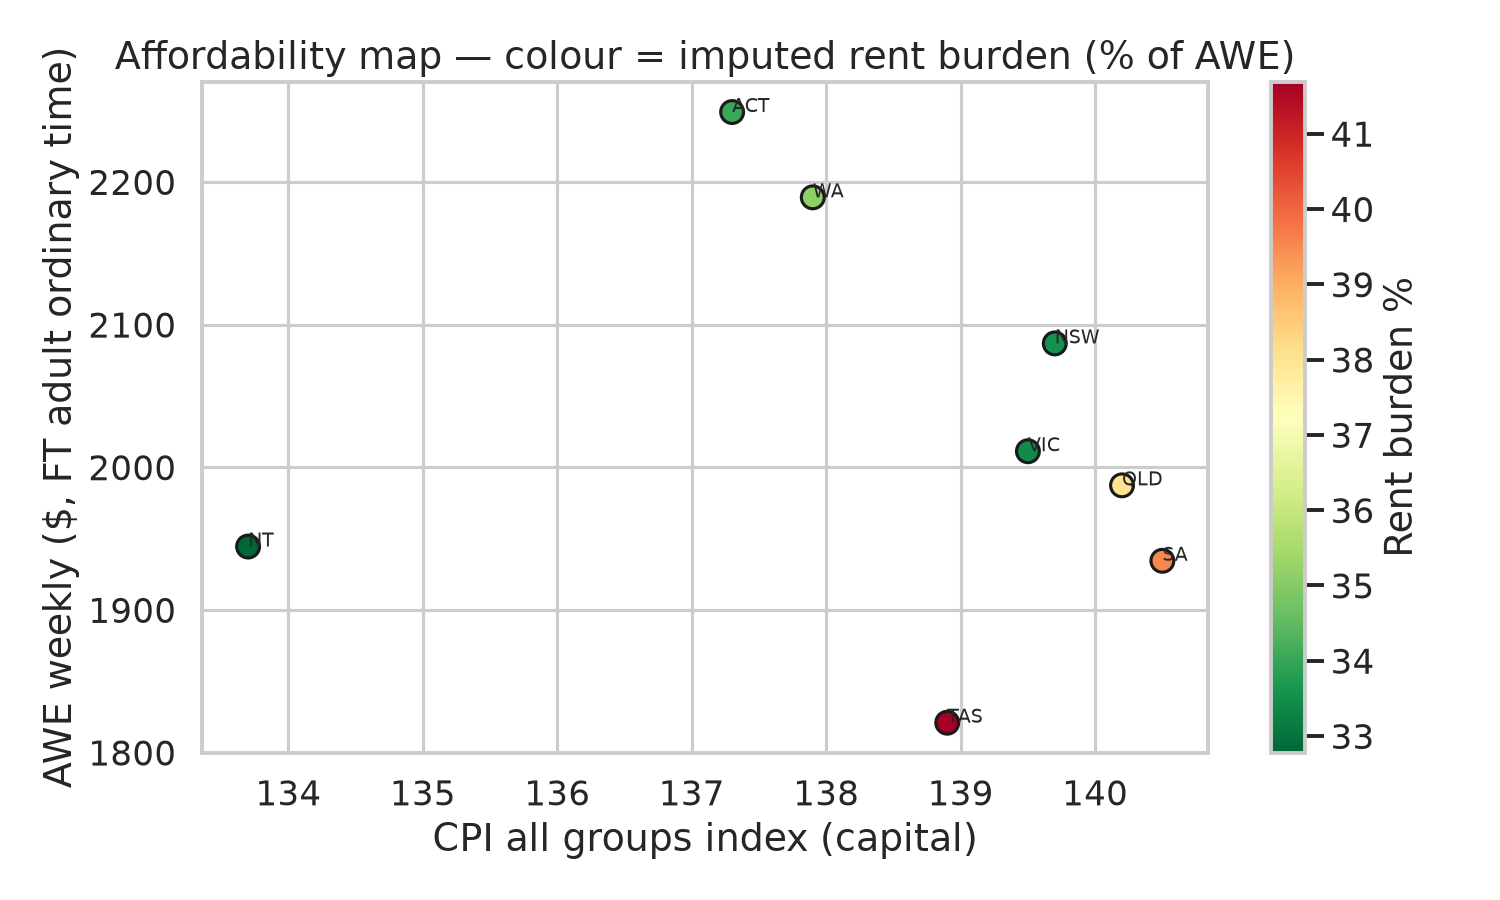
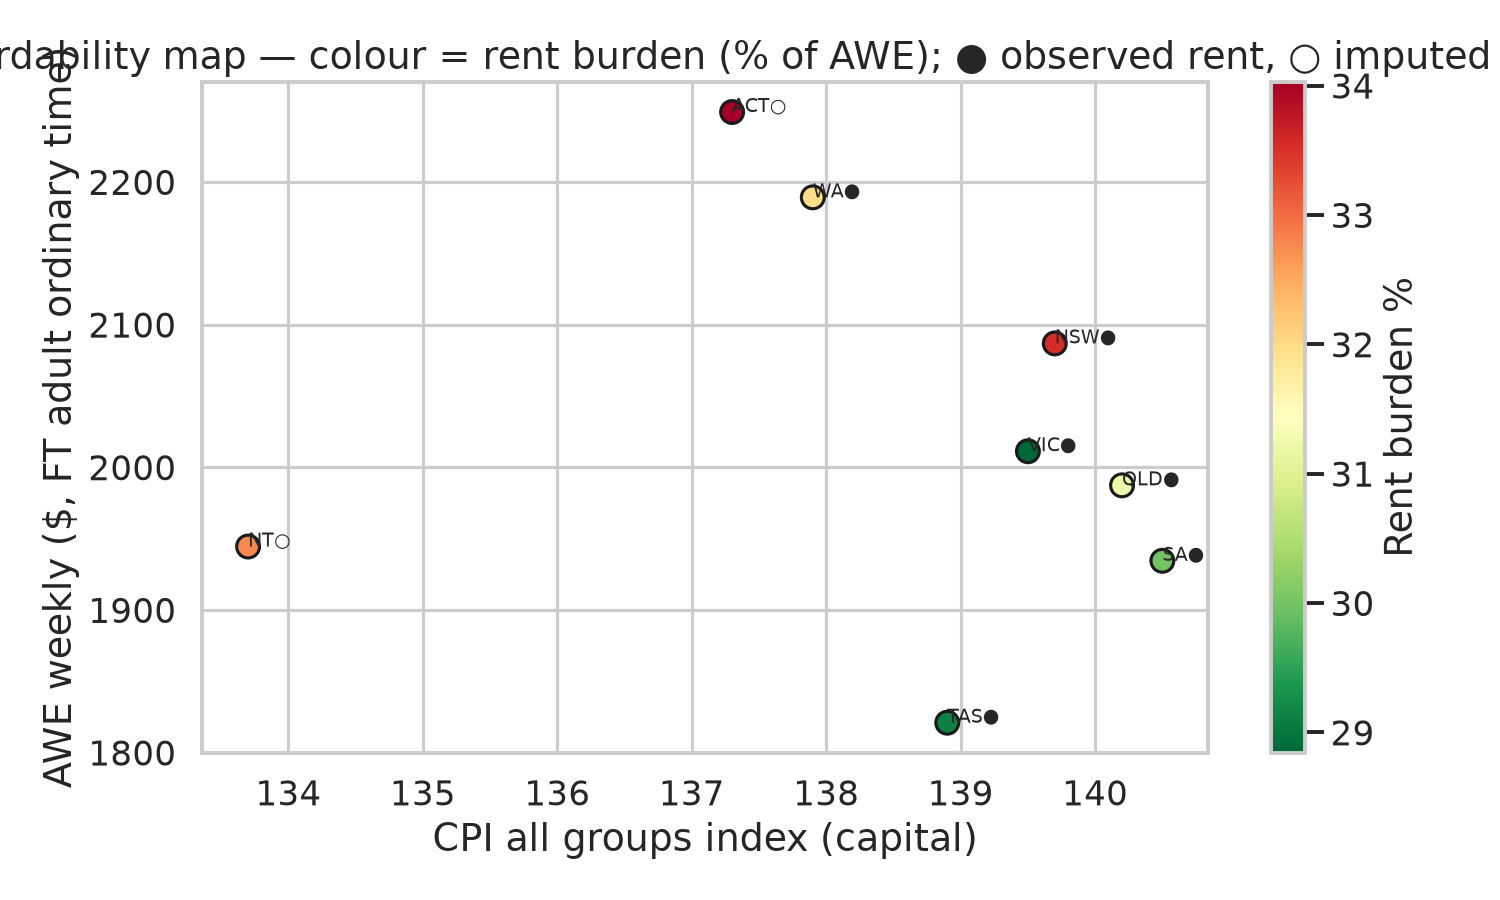
Merge observed capital rents into affordability outputs.
Prefer bond and rental-report medians where available; keep CPI-scaled fallback only for ACT and Darwin, and refresh tables, figures, and manifest entries.

diff --git a/src/analysis/affordability.py b/src/analysis/affordability.py
@@ -4,16 +4,16 @@ Affordability index: earnings vs cost of living.
 Methodology (documented in README):
 - Base index A: real_earnings_index = (weekly AWE / CPI all-groups index) × 100.
   Higher = more weekly pay per unit of city price level (purchasing-power proxy).
-- Base index B: rent_burden_pct = 100 × (imputed_weekly_rent / weekly AWE).
+- Base index B: rent_burden_pct = 100 × (median_weekly_rent / weekly AWE).
   Lower = more affordable housing relative to pay.
 
-Imputed weekly rent by capital (when bond data unavailable):
-  rent_hat(city) = NSW_median_rent × (CPI_rent_index(city) / CPI_rent_index(Sydney))
-  Anchored to NSW Fair Trading Nov 2025 median; other cities scaled by ABS CPI rents only.
+Median weekly rent by capital:
+  Prefer official bond / rental-report medians where downloaded (see `rent_observed`).
+  Fallback: NSW_median × (CPI_rent_index(city) / CPI_rent_index(Sydney)) for ACT and NT.
 
 Sensitivity (saved separately):
 - S1: use EEH average weekly total cash instead of AWE ordinary time.
-- S2: rent burden using CPI all-groups index instead of CPI rents for scaling.
+- S2: rent burden using CPI all-groups index instead of CPI rents for scaling (imputation only).
 """
 
 from __future__ import annotations
@@ -26,23 +26,15 @@ import seaborn as sns
 
 from src.io.cpi import load_cpi_all_groups_by_capital, load_cpi_rents_by_capital
 from src.io.earnings import load_awe_ft_adult_ordinary_by_state, load_eeh_avg_weekly_total_cash_by_state
+from src.io.rents_merge import merge_observed_and_imputed
 from src.io.rents_nsw import load_nsw_weekly_rents
+from src.io.rents_observed import load_all_observed_medians
 
 ROOT = Path(__file__).resolve().parents[2]
 RAW = ROOT / "data" / "raw"
 PROC = ROOT / "data" / "processed"
 FIG = ROOT / "outputs" / "figures"
 TAB = ROOT / "outputs" / "tables"
-
-
-def _impute_weekly_rents(cpi_rents: pd.DataFrame, nsw_median: float) -> pd.DataFrame:
-    sydney_idx = float(
-        cpi_rents.loc[cpi_rents["capital"] == "Sydney", "cpi_rent_index"].iloc[0]
-    )
-    out = cpi_rents.copy()
-    out["imputed_median_weekly_rent_aud"] = nsw_median * (out["cpi_rent_index"] / sydney_idx)
-    out["rent_imputation"] = "NSW bond median × (city CPI rent / Sydney CPI rent)"
-    return out
 
 
 def run() -> dict:
@@ -61,18 +53,32 @@ def run() -> dict:
         .iloc[0]
     )
 
-    rents = _impute_weekly_rents(cpi_rent, nsw_median)
+    observed = load_all_observed_medians(RAW)
+    observed.to_csv(PROC / "median_weekly_rents_observed.csv", index=False)
+    observed.to_csv(TAB / "median_weekly_rents_by_capital.csv", index=False)
+
+    rents = merge_observed_and_imputed(cpi_rent, observed, nsw_median)
     base = awe.merge(cpi, left_on="capital", right_on="capital", how="left")
     base = base.merge(
-        rents[["capital", "imputed_median_weekly_rent_aud", "rent_imputation"]],
+        rents[
+            [
+                "capital",
+                "median_weekly_rent_aud",
+                "rent_observed",
+                "rent_imputation",
+                "rent_source",
+                "period_label",
+            ]
+        ],
         on="capital",
         how="left",
     )
+    base = base.rename(columns={"period_label": "rent_period"})
     base["real_earnings_index"] = base["awe_weekly_aud"] / base["cpi_all_groups_index"] * 100.0
     base["rent_burden_pct"] = (
-        base["imputed_median_weekly_rent_aud"] / base["awe_weekly_aud"] * 100.0
+        base["median_weekly_rent_aud"] / base["awe_weekly_aud"] * 100.0
     )
-    base["residual_weekly_aud"] = base["awe_weekly_aud"] - base["imputed_median_weekly_rent_aud"]
+    base["residual_weekly_aud"] = base["awe_weekly_aud"] - base["median_weekly_rent_aud"]
     base = base.sort_values("real_earnings_index", ascending=False)
     base.to_csv(PROC / "affordability_base.csv", index=False)
     base.to_csv(TAB / "affordability_index.csv", index=False)
@@ -80,17 +86,25 @@ def run() -> dict:
     # Sensitivity
     s1 = base.merge(eeh, on=["state", "capital"], how="left")
     s1["real_earnings_index_s1"] = s1["eeh_weekly_cash_aud"] / s1["cpi_all_groups_index"] * 100.0
-    s1["rent_burden_pct_s1"] = s1["imputed_median_weekly_rent_aud"] / s1["eeh_weekly_cash_aud"] * 100.0
+    s1["rent_burden_pct_s1"] = s1["median_weekly_rent_aud"] / s1["eeh_weekly_cash_aud"] * 100.0
 
     sydney_cpi = float(cpi.loc[cpi["capital"] == "Sydney", "cpi_all_groups_index"].iloc[0])
     rent_s2 = nsw_median * (cpi["cpi_all_groups_index"] / sydney_cpi)
     rent_s2 = cpi[["capital"]].assign(imputed_rent_s2=rent_s2.values)
     s2 = base.merge(rent_s2, on="capital", how="left")
-    s2["rent_burden_pct_s2"] = s2["imputed_rent_s2"] / s2["awe_weekly_aud"] * 100.0
+    s2["rent_burden_pct_s2"] = s2.apply(
+        lambda r: (
+            r["median_weekly_rent_aud"] / r["awe_weekly_aud"] * 100.0
+            if r["rent_observed"]
+            else r["imputed_rent_s2"] / r["awe_weekly_aud"] * 100.0
+        ),
+        axis=1,
+    )
     sens = s1.merge(s2[["state", "rent_burden_pct_s2"]], on="state", how="left")[
         [
             "state",
             "capital",
+            "rent_observed",
             "real_earnings_index",
             "real_earnings_index_s1",
             "rent_burden_pct",
@@ -111,10 +125,15 @@ def run() -> dict:
         edgecolors="k",
     )
     for _, row in plot_df.iterrows():
-        ax.annotate(row["state"], (row["cpi_all_groups_index"], row["awe_weekly_aud"]), fontsize=9)
+        marker = "●" if row["rent_observed"] else "○"
+        ax.annotate(
+            f"{row['state']}{marker}",
+            (row["cpi_all_groups_index"], row["awe_weekly_aud"]),
+            fontsize=9,
+        )
     ax.set_xlabel("CPI all groups index (capital)")
     ax.set_ylabel("AWE weekly ($, FT adult ordinary time)")
-    ax.set_title("Affordability map — colour = imputed rent burden (% of AWE)")
+    ax.set_title("Affordability map — colour = rent burden (% of AWE); ● observed rent, ○ imputed")
     fig.colorbar(ax.collections[0], ax=ax, label="Rent burden %")
     fig.tight_layout()
     fig.savefig(FIG / "affordability_scatter.png", dpi=150)
@@ -122,12 +141,14 @@ def run() -> dict:
 
     best = base.iloc[0]
     worst_burden = base.loc[base["rent_burden_pct"].idxmax()]
+    n_observed = int(base["rent_observed"].sum())
     summary = {
         "best_real_earnings_capital": best["capital"],
         "best_real_earnings_state": best["state"],
         "best_real_earnings_index": float(best["real_earnings_index"]),
         "highest_rent_burden_capital": worst_burden["capital"],
         "highest_rent_burden_pct": float(worst_burden["rent_burden_pct"]),
+        "capitals_with_observed_rent": n_observed,
         "nsw_anchor_median_rent_aud": nsw_median,
     }
     pd.Series(summary).to_json(PROC / "affordability_summary.json", indent=2)

diff --git a/src/analysis/cost_of_living.py b/src/analysis/cost_of_living.py
@@ -9,6 +9,7 @@ import pandas as pd
 import seaborn as sns
 
 from src.io.cpi import load_cpi_all_groups_by_capital, load_cpi_rents_by_capital
+from src.io.rents_observed import load_all_observed_medians
 from src.io.rents_nsw import load_nsw_weekly_rents
 
 ROOT = Path(__file__).resolve().parents[2]
@@ -32,6 +33,11 @@ def run() -> dict:
 
     nsw_rent = load_nsw_weekly_rents(RAW / "nsw_rental_bond_lodgements_nov2025.xlsx")
     nsw_rent.to_csv(PROC / "nsw_median_rent_nov2025.csv", index=False)
+    try:
+        observed = load_all_observed_medians(RAW)
+        observed.to_csv(PROC / "median_weekly_rents_observed.csv", index=False)
+    except FileNotFoundError:
+        observed = None
 
     fig, axes = plt.subplots(1, 2, figsize=(14, 6))
     cpi_sorted = col.sort_values("cpi_all_groups_index")
@@ -58,6 +64,7 @@ def run() -> dict:
         "nsw_median_weekly_rent_aud": float(
             nsw_rent.loc[nsw_rent["metric"] == "median_weekly_rent_aud", "value"].iloc[0]
         ),
+        "capitals_with_observed_rent": int(observed.shape[0]) if observed is not None else 0,
     }
     pd.Series(summary).to_json(PROC / "col_summary.json", indent=2)
     return summary

diff --git a/data/SOURCES.md b/data/SOURCES.md
@@ -21,7 +21,12 @@ Auto-generated on **2026-10-14** from `data/manifest.json`.
 | jsa_osl_2025 | JSA Occupation Shortage List 2025 (6-digit ANZSCO 2022) | https://www.jobsandskills.gov.au/sites/default/files/2025-10/2025%20Occupation%20Shortage%20List%20-%206%20digit%20ANZSCO%20and%20OSCA.xlsx | `data/raw/jsa_occupation_shortage_list_2025.xlsx` | 2026-10-14 | `feb9bc5e4a60443f…` | 190031 |  |
 | legislation_lin_19051 | Federal Register of Legislation LIN 19/051 — MLTSSL/STSOL/ROL | https://www.legislation.gov.au/F2019L00278/2024-12-14/2024-12-14/text/original/pdf | `data/raw/legislation_lin_19051_skilled_occupations.pdf` | 2026-10-14 | `aeba15b650f6f566…` | 415742 |  |
 | nsw_rental_bond_lodgements | NSW Fair Trading — rental bond lodgements Nov 2025 | https://www.nsw.gov.au/sites/default/files/noindex/2025-12/rentalbond_lodgements_november_2025.xlsx | `data/raw/nsw_rental_bond_lodgements_nov2025.xlsx` | 2026-10-14 | `5c330d3c61c32611…` | 636734 |  |
+| qld_rta_median_rents | QLD RTA — quarterly median rents from bond lodgements | https://www.rta.qld.gov.au/sites/default/files/2023-04/rta-bond-statistics.xlsx | `data/raw/qld_rta_median_rents.xlsx` | 2026-10-14 | `5c3af9c21bb93b8a…` | 6254358 |  |
+| sa_private_rent_postcodes | SA Housing Trust Private Rent Report — metropolitan strata (CBS bonds) | https://data.sa.gov.au/data/dataset/8eb97a72-9919-448b-8de6-fc1530b3f7ec/resource/b4aa86f1-7efa-4690-9793-bd36df97ad29/download/private-rental-report-2026-06.xlsx | `data/raw/sa_private_rent_by_postcode_2026-06.csv` | 2026-10-14 | `46d75059d4b2a86c…` | 95715 | Direct Data SA XLSX returned HTTP 403 from build environment; postcode strata CSV ingested from CC BY mirror of the same Private Rent Report release. |
 | slci_all_groups | ABS SLCI Jun 2026 — all groups index | https://www.abs.gov.au/statistics/economy/price-indexes-and-inflation/selected-living-cost-indexes-australia/jun-2026/646701.xlsx | `data/raw/646701.xlsx` | 2026-10-14 | `cb8190089914d2c8…` | 58028 |  |
+| tas_rental_bond_november_2025 | Tasmania rental bond lodgements — November 2025 (open data) | https://data.gov.au/data/dataset/a5096409-4702-468e-94a7-303951b4173b/resource/df29642c-5d80-47f1-9f93-d4ca802ab6c3/download/abs-report-november-2025.xlsx | `data/raw/tas_rental_bond_november_2025.xlsx` | 2026-10-14 | `663235927d1fef86…` | 209862 |  |
+| vic_rental_report_tables_sep2025 | VIC Homes Victoria Rental Report — tables Sep quarter 2025 (Melbourne median) | https://www.dffh.vic.gov.au/tables-rental-report-september-quarter-2025-excel | `data/raw/vic_rental_report_tables_sep2025.xlsx` | 2026-10-14 | `895746dee06f5199…` | 1156235 |  |
+| wa_rental_bonds | WA Consumer Protection rental bonds — monthly lodgement microdata (AHDAP) | https://ahdap-public-data.s3.ap-southeast-2.amazonaws.com/RentalBondsWA/wa-rental-bond-sep2026.zip | `data/raw/wa_rental_bonds.zip` | 2026-10-14 | `1832b9005c6454e0…` | 4169264 | Package landing page: https://housing-data-exchange.ahdap.org/dataset/west-australia-rental-bonds-data-2023-current |
 
 ## Unavailable or blocked at download time
 
